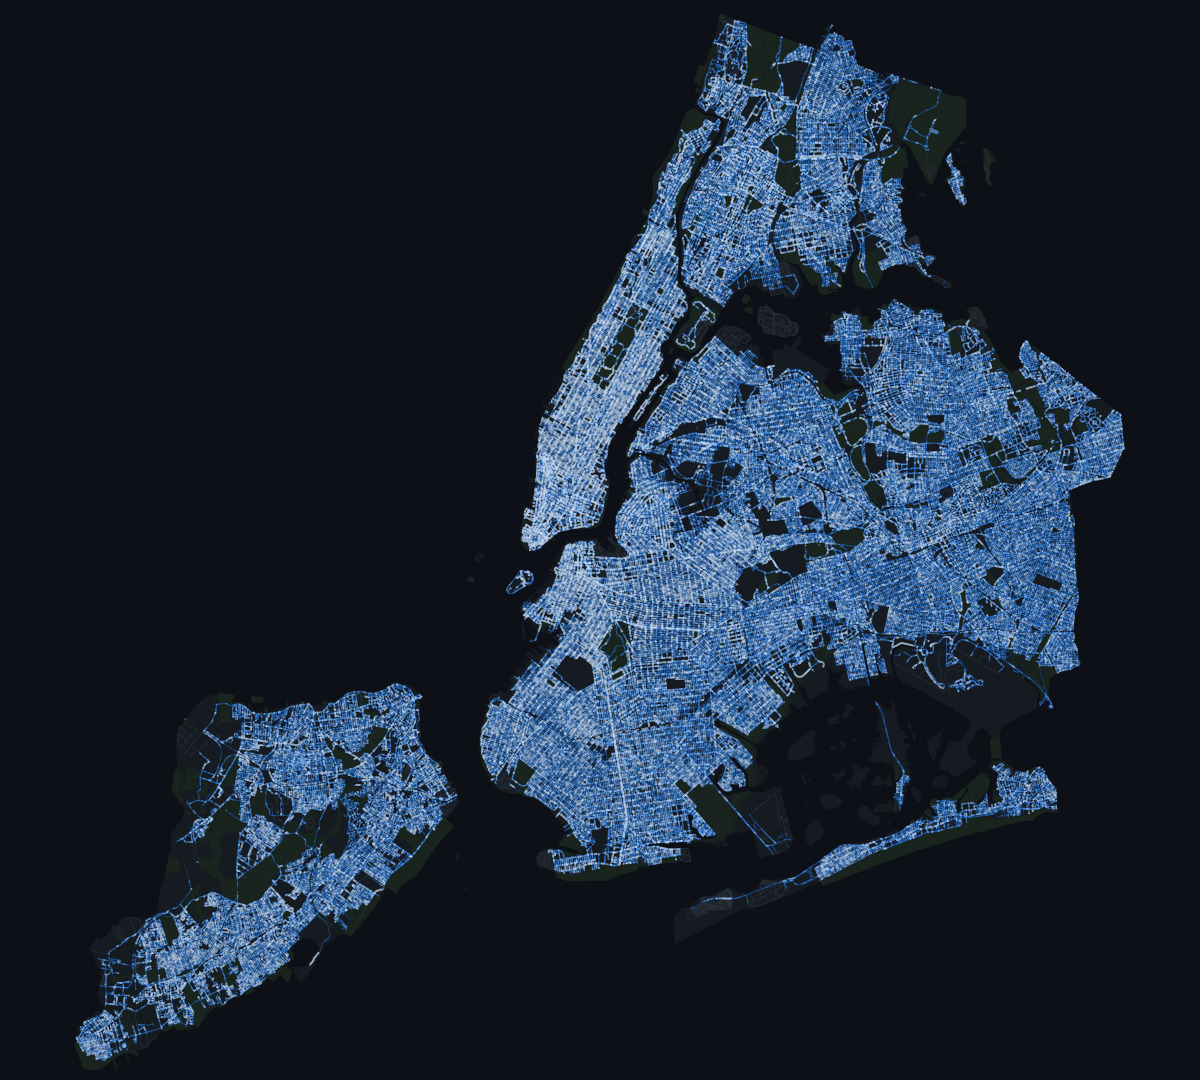
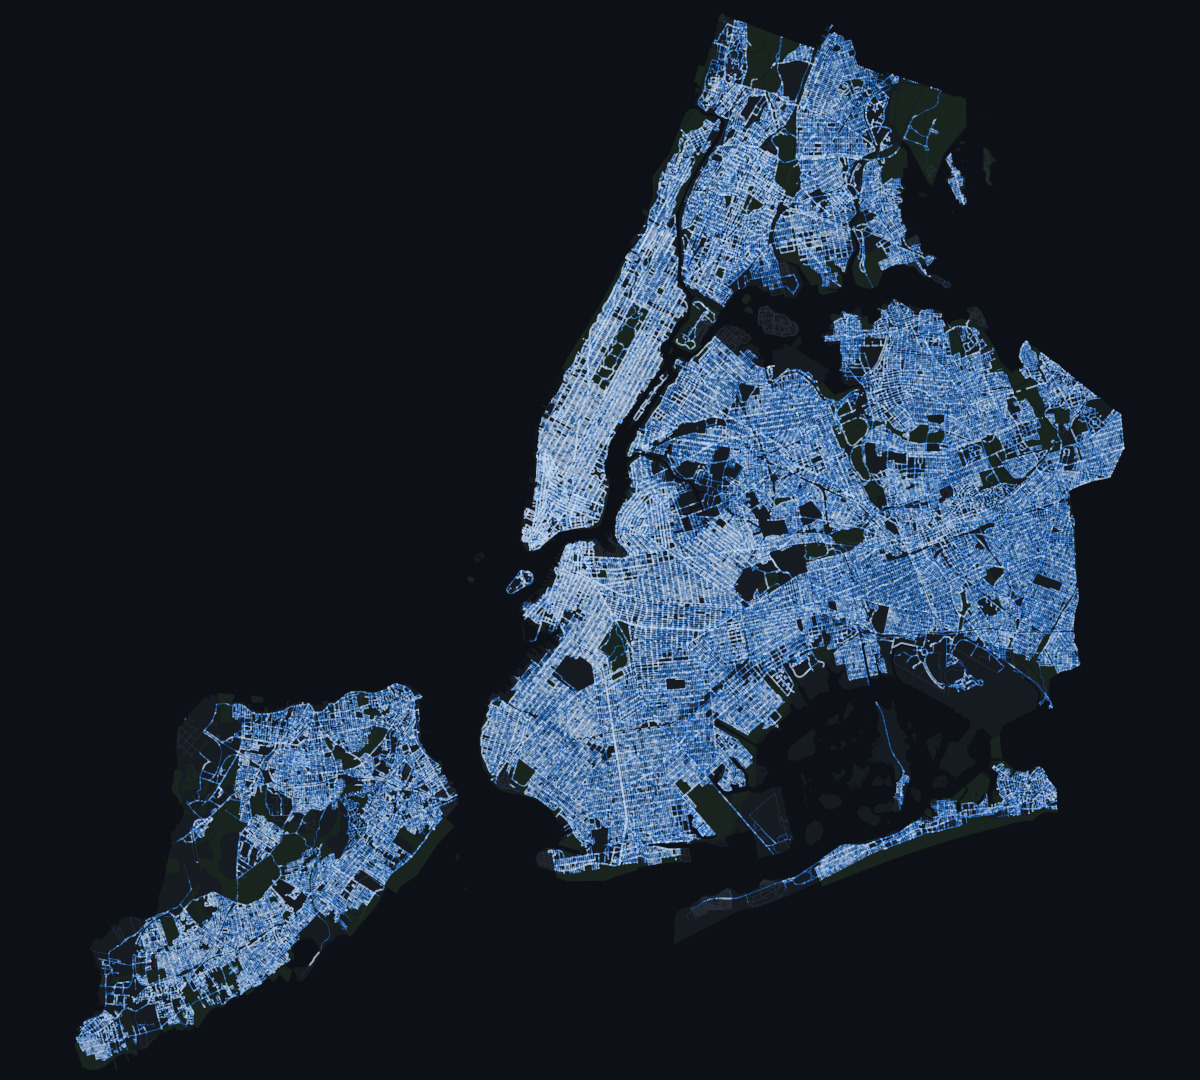
Map figure and tables from dataset v0.2 (plan levels up to 20)

diff --git a/docs/index.html b/docs/index.html
@@ -173,8 +173,8 @@
         <div class="stack" style="margin-top:36px">
           <div class="prose">
 <!-- nyc:start -->
-<p><strong>Version v0.1 (preview, plan levels up to 18)</strong>: 629,271 assets in 22 classes from 52,269 panoramas captured between 2007 and 2026. Plan levels up to 18 (one panorama per cell of about 116 m) across the five boroughs; minimum support capped at 1.</p>
-<p>The evaluation region is the union of 15 m disks around the 722 mapped panoramas that lie within 20 m of a panorama of the Upper Manhattan pilot study and at least 30 m from its development split, on which the fusion parameters were tuned. Over 4,153 ground-truth assets of NYC Open Data in that region, the map has precision 0.281, recall 0.293 and F1 0.287 at a matching radius of 3 m (<a href="#accuracy">table</a>).</p>
+<p><strong>Version v0.2 (plan levels up to 20)</strong>: 4,265,125 assets in 22 classes from 401,419 panoramas captured between 2007 and 2026. Plan levels up to 20 (one panorama per cell of about 29 m) across the five boroughs; minimum support capped at 1.</p>
+<p>The evaluation region is the union of 15 m disks around the 5996 mapped panoramas that lie within 20 m of a panorama of the Upper Manhattan pilot study and at least 30 m from its development split, on which the fusion parameters were tuned. Over 29,806 ground-truth assets of NYC Open Data in that region, the map has precision 0.255, recall 0.345 and F1 0.293 at a matching radius of 3 m (<a href="#accuracy">table</a>).</p>
 <p>The dataset holds the asset map, the reference points and the evaluation region, and no imagery.</p>
 <!-- nyc:end -->
           </div>
@@ -201,21 +201,21 @@ hydrants = assets[(assets["class"] == "fire_hydrant") &amp; (assets["support"] &
 <!-- accuracy:start -->
 <div class="table-wrap"><table>
 <thead><tr><th>Class</th><th class="n">Ground truth</th><th class="n">Predicted</th><th class="n">Precision</th><th class="n">Recall</th><th class="n">F1</th><th class="n">Median error (m)</th></tr></thead><tbody>
-<tr><td class="cls"><span class="sq" style="background:var(--g5)"></span>Street tree</td><td class="n">1,457</td><td class="n">1,591</td><td class="n">0.521</td><td class="n">0.564</td><td class="n">0.542</td><td class="n">2.22</td></tr>
-<tr><td class="cls"><span class="sq" style="background:var(--g1)"></span>Traffic sign</td><td class="n">913</td><td class="n">634</td><td class="n">0.146</td><td class="n">0.101</td><td class="n">0.119</td><td class="n">2.26</td></tr>
-<tr><td class="cls"><span class="sq" style="background:var(--g0)"></span>Sign pole</td><td class="n">485</td><td class="n">306</td><td class="n">0.039</td><td class="n">0.025</td><td class="n">0.030</td><td class="n">2.91</td></tr>
-<tr><td class="cls"><span class="sq" style="background:var(--g0)"></span>Street light</td><td class="n">351</td><td class="n">781</td><td class="n">0.097</td><td class="n">0.217</td><td class="n">0.134</td><td class="n">1.58</td></tr>
-<tr><td class="cls"><span class="sq" style="background:var(--g2)"></span>Curb ramp</td><td class="n">307</td><td class="n">219</td><td class="n">0.542</td><td class="n">0.378</td><td class="n">0.445</td><td class="n">1.40</td></tr>
-<tr><td class="cls"><span class="sq" style="background:var(--g3)"></span>Fire hydrant</td><td class="n">186</td><td class="n">115</td><td class="n">0.426</td><td class="n">0.263</td><td class="n">0.326</td><td class="n">2.27</td></tr>
-<tr><td class="cls"><span class="sq" style="background:var(--g2)"></span>Catch basin</td><td class="n">176</td><td class="n">113</td><td class="n">0.186</td><td class="n">0.119</td><td class="n">0.145</td><td class="n">2.38</td></tr>
-<tr><td class="cls"><span class="sq" style="background:var(--g6)"></span>Bike rack</td><td class="n">129</td><td class="n">71</td><td class="n">0.070</td><td class="n">0.039</td><td class="n">0.050</td><td class="n">2.11</td></tr>
-<tr><td class="cls"><span class="sq" style="background:var(--g4)"></span>Trash can</td><td class="n">51</td><td class="n">314</td><td class="n">0.029</td><td class="n">0.176</td><td class="n">0.049</td><td class="n">1.97</td></tr>
-<tr><td class="cls"><span class="sq" style="background:var(--g6)"></span>Parking meter</td><td class="n">29</td><td class="n">16</td><td class="n">0.125</td><td class="n">0.069</td><td class="n">0.089</td><td class="n">2.49</td></tr>
-<tr><td class="cls"><span class="sq" style="background:var(--g3)"></span>Fire alarm box</td><td class="n">23</td><td class="n">2</td><td class="n">0.000</td><td class="n">0.000</td><td class="n">0.000</td><td class="n">n/a</td></tr>
-<tr><td class="cls"><span class="sq" style="background:var(--g7)"></span>Bench</td><td class="n">19</td><td class="n">182</td><td class="n">0.055</td><td class="n">0.526</td><td class="n">0.100</td><td class="n">2.55</td></tr>
-<tr><td class="cls"><span class="sq" style="background:var(--g6)"></span>Bus shelter</td><td class="n">14</td><td class="n">7</td><td class="n">0.429</td><td class="n">0.214</td><td class="n">0.286</td><td class="n">2.57</td></tr>
-<tr><td class="cls"><span class="sq" style="background:var(--g7)"></span>LinkNYC kiosk</td><td class="n">13</td><td class="n">0</td><td class="n">n/a</td><td class="n">0.000</td><td class="n">n/a</td><td class="n">n/a</td></tr>
-<tr class="total"><td>All classes</td><td class="n">4,153</td><td class="n">4,351</td><td class="n">0.281</td><td class="n">0.293</td><td class="n">0.287</td><td class="n"></td></tr>
+<tr><td class="cls"><span class="sq" style="background:var(--g5)"></span>Street tree</td><td class="n">9,768</td><td class="n">12,432</td><td class="n">0.500</td><td class="n">0.636</td><td class="n">0.560</td><td class="n">2.17</td></tr>
+<tr><td class="cls"><span class="sq" style="background:var(--g1)"></span>Traffic sign</td><td class="n">6,322</td><td class="n">5,779</td><td class="n">0.149</td><td class="n">0.136</td><td class="n">0.142</td><td class="n">2.57</td></tr>
+<tr><td class="cls"><span class="sq" style="background:var(--g0)"></span>Sign pole</td><td class="n">3,390</td><td class="n">3,407</td><td class="n">0.044</td><td class="n">0.044</td><td class="n">0.044</td><td class="n">3.23</td></tr>
+<tr><td class="cls"><span class="sq" style="background:var(--g2)"></span>Curb ramp</td><td class="n">2,962</td><td class="n">2,254</td><td class="n">0.633</td><td class="n">0.479</td><td class="n">0.546</td><td class="n">1.41</td></tr>
+<tr><td class="cls"><span class="sq" style="background:var(--g0)"></span>Street light</td><td class="n">2,409</td><td class="n">7,464</td><td class="n">0.084</td><td class="n">0.261</td><td class="n">0.127</td><td class="n">1.84</td></tr>
+<tr><td class="cls"><span class="sq" style="background:var(--g2)"></span>Catch basin</td><td class="n">1,582</td><td class="n">1,147</td><td class="n">0.305</td><td class="n">0.221</td><td class="n">0.256</td><td class="n">1.82</td></tr>
+<tr><td class="cls"><span class="sq" style="background:var(--g3)"></span>Fire hydrant</td><td class="n">1,454</td><td class="n">1,106</td><td class="n">0.375</td><td class="n">0.284</td><td class="n">0.323</td><td class="n">2.29</td></tr>
+<tr><td class="cls"><span class="sq" style="background:var(--g6)"></span>Bike rack</td><td class="n">817</td><td class="n">691</td><td class="n">0.041</td><td class="n">0.034</td><td class="n">0.037</td><td class="n">2.10</td></tr>
+<tr><td class="cls"><span class="sq" style="background:var(--g4)"></span>Trash can</td><td class="n">402</td><td class="n">3,839</td><td class="n">0.032</td><td class="n">0.308</td><td class="n">0.058</td><td class="n">2.51</td></tr>
+<tr><td class="cls"><span class="sq" style="background:var(--g3)"></span>Fire alarm box</td><td class="n">197</td><td class="n">25</td><td class="n">0.000</td><td class="n">0.000</td><td class="n">0.000</td><td class="n">n/a</td></tr>
+<tr><td class="cls"><span class="sq" style="background:var(--g6)"></span>Parking meter</td><td class="n">187</td><td class="n">131</td><td class="n">0.115</td><td class="n">0.080</td><td class="n">0.094</td><td class="n">1.68</td></tr>
+<tr><td class="cls"><span class="sq" style="background:var(--g7)"></span>LinkNYC kiosk</td><td class="n">109</td><td class="n">4</td><td class="n">0.000</td><td class="n">0.000</td><td class="n">0.000</td><td class="n">4.09</td></tr>
+<tr><td class="cls"><span class="sq" style="background:var(--g6)"></span>Bus shelter</td><td class="n">105</td><td class="n">75</td><td class="n">0.338</td><td class="n">0.248</td><td class="n">0.286</td><td class="n">2.57</td></tr>
+<tr><td class="cls"><span class="sq" style="background:var(--g7)"></span>Bench</td><td class="n">102</td><td class="n">1,954</td><td class="n">0.027</td><td class="n">0.520</td><td class="n">0.052</td><td class="n">1.83</td></tr>
+<tr class="total"><td>All classes</td><td class="n">29,806</td><td class="n">40,308</td><td class="n">0.255</td><td class="n">0.345</td><td class="n">0.293</td><td class="n"></td></tr>
 </tbody></table></div>
 <!-- accuracy:end -->
         <p class="cap">Reference points come from NYC Open Data. Several layers are partial or dated: sign work orders record the signs the city has worked on, the tree census dates from 2015 and the ramp survey from 2019, and a detected asset missing from its layer counts as a false positive. The median error is over pairs matched within 5 m. The <a href="evaluation.html">evaluation</a> gives the protocol and the reference layers.</p>

diff --git a/docs/evaluation.html b/docs/evaluation.html
@@ -68,7 +68,7 @@ median error: median distance of the pairs matched within 5 m</code></pre>
 <p>The region centres are published with the dataset (<code>eval/region_centers.parquet</code>), together with the reference points (<code>eval/ground_truth.parquet</code>).</p>
 <h2 id="results">Results<a class="anchor" href="#results" aria-label="Link to this section">#</a></h2>
 <p>The published version of the map, at a matching radius of 3 m:</p>
-<div class="table-wrap"><table><thead><tr><th>Class</th><th class=n>Ground truth</th><th class=n>Predicted</th><th class=n>Precision</th><th class=n>Recall</th><th class=n>F1</th><th class=n>Median error (m)</th></tr></thead><tbody><tr><td>Street tree</td><td class=n>1,457</td><td class=n>1,591</td><td class=n>0.521</td><td class=n>0.564</td><td class=n>0.542</td><td class=n>2.22</td></tr><tr><td>Traffic sign</td><td class=n>913</td><td class=n>634</td><td class=n>0.146</td><td class=n>0.101</td><td class=n>0.119</td><td class=n>2.26</td></tr><tr><td>Sign pole</td><td class=n>485</td><td class=n>306</td><td class=n>0.039</td><td class=n>0.025</td><td class=n>0.030</td><td class=n>2.91</td></tr><tr><td>Street light</td><td class=n>351</td><td class=n>781</td><td class=n>0.097</td><td class=n>0.217</td><td class=n>0.134</td><td class=n>1.58</td></tr><tr><td>Curb ramp</td><td class=n>307</td><td class=n>219</td><td class=n>0.542</td><td class=n>0.378</td><td class=n>0.445</td><td class=n>1.40</td></tr><tr><td>Fire hydrant</td><td class=n>186</td><td class=n>115</td><td class=n>0.426</td><td class=n>0.263</td><td class=n>0.326</td><td class=n>2.27</td></tr><tr><td>Catch basin</td><td class=n>176</td><td class=n>113</td><td class=n>0.186</td><td class=n>0.119</td><td class=n>0.145</td><td class=n>2.38</td></tr><tr><td>Bike rack</td><td class=n>129</td><td class=n>71</td><td class=n>0.070</td><td class=n>0.039</td><td class=n>0.050</td><td class=n>2.11</td></tr><tr><td>Trash can</td><td class=n>51</td><td class=n>314</td><td class=n>0.029</td><td class=n>0.176</td><td class=n>0.049</td><td class=n>1.97</td></tr><tr><td>Parking meter</td><td class=n>29</td><td class=n>16</td><td class=n>0.125</td><td class=n>0.069</td><td class=n>0.089</td><td class=n>2.49</td></tr><tr><td>Fire alarm box</td><td class=n>23</td><td class=n>2</td><td class=n>0.000</td><td class=n>0.000</td><td class=n>0.000</td><td class=n>n/a</td></tr><tr><td>Bench</td><td class=n>19</td><td class=n>182</td><td class=n>0.055</td><td class=n>0.526</td><td class=n>0.100</td><td class=n>2.55</td></tr><tr><td>Bus shelter</td><td class=n>14</td><td class=n>7</td><td class=n>0.429</td><td class=n>0.214</td><td class=n>0.286</td><td class=n>2.57</td></tr><tr><td>LinkNYC kiosk</td><td class=n>13</td><td class=n>0</td><td class=n>n/a</td><td class=n>0.000</td><td class=n>n/a</td><td class=n>n/a</td></tr><tr class="total"><td>All classes</td><td class=n>4,153</td><td class=n>4,351</td><td class=n>0.281</td><td class=n>0.293</td><td class=n>0.287</td><td class=n></td></tr></tbody></table></div>
+<div class="table-wrap"><table><thead><tr><th>Class</th><th class=n>Ground truth</th><th class=n>Predicted</th><th class=n>Precision</th><th class=n>Recall</th><th class=n>F1</th><th class=n>Median error (m)</th></tr></thead><tbody><tr><td>Street tree</td><td class=n>9,768</td><td class=n>12,432</td><td class=n>0.500</td><td class=n>0.636</td><td class=n>0.560</td><td class=n>2.17</td></tr><tr><td>Traffic sign</td><td class=n>6,322</td><td class=n>5,779</td><td class=n>0.149</td><td class=n>0.136</td><td class=n>0.142</td><td class=n>2.57</td></tr><tr><td>Sign pole</td><td class=n>3,390</td><td class=n>3,407</td><td class=n>0.044</td><td class=n>0.044</td><td class=n>0.044</td><td class=n>3.23</td></tr><tr><td>Curb ramp</td><td class=n>2,962</td><td class=n>2,254</td><td class=n>0.633</td><td class=n>0.479</td><td class=n>0.546</td><td class=n>1.41</td></tr><tr><td>Street light</td><td class=n>2,409</td><td class=n>7,464</td><td class=n>0.084</td><td class=n>0.261</td><td class=n>0.127</td><td class=n>1.84</td></tr><tr><td>Catch basin</td><td class=n>1,582</td><td class=n>1,147</td><td class=n>0.305</td><td class=n>0.221</td><td class=n>0.256</td><td class=n>1.82</td></tr><tr><td>Fire hydrant</td><td class=n>1,454</td><td class=n>1,106</td><td class=n>0.375</td><td class=n>0.284</td><td class=n>0.323</td><td class=n>2.29</td></tr><tr><td>Bike rack</td><td class=n>817</td><td class=n>691</td><td class=n>0.041</td><td class=n>0.034</td><td class=n>0.037</td><td class=n>2.10</td></tr><tr><td>Trash can</td><td class=n>402</td><td class=n>3,839</td><td class=n>0.032</td><td class=n>0.308</td><td class=n>0.058</td><td class=n>2.51</td></tr><tr><td>Fire alarm box</td><td class=n>197</td><td class=n>25</td><td class=n>0.000</td><td class=n>0.000</td><td class=n>0.000</td><td class=n>n/a</td></tr><tr><td>Parking meter</td><td class=n>187</td><td class=n>131</td><td class=n>0.115</td><td class=n>0.080</td><td class=n>0.094</td><td class=n>1.68</td></tr><tr><td>LinkNYC kiosk</td><td class=n>109</td><td class=n>4</td><td class=n>0.000</td><td class=n>0.000</td><td class=n>0.000</td><td class=n>4.09</td></tr><tr><td>Bus shelter</td><td class=n>105</td><td class=n>75</td><td class=n>0.338</td><td class=n>0.248</td><td class=n>0.286</td><td class=n>2.57</td></tr><tr><td>Bench</td><td class=n>102</td><td class=n>1,954</td><td class=n>0.027</td><td class=n>0.520</td><td class=n>0.052</td><td class=n>1.83</td></tr><tr class="total"><td>All classes</td><td class=n>29,806</td><td class=n>40,308</td><td class=n>0.255</td><td class=n>0.345</td><td class=n>0.293</td><td class=n></td></tr></tbody></table></div>
 <p>The accuracy of a map depends on how densely its panoramas sample the streets. In version v0.1 (one panorama per cell of about 116 m), 93.3% of the assets have support 1, so the minimum support is capped at 1, which raises recall and lowers precision. The dataset card states the sampling of each version.</p>
 <p>To recompute the table from the published files:</p>
 <pre><code>hf download mehmetkeremturkcan/streetnet-nyc --repo-type dataset --local-dir streetnet-nyc

diff --git a/docs/evaluation.md b/docs/evaluation.md
@@ -73,21 +73,21 @@ The published version of the map, at a matching radius of 3 m:
 <!-- accuracy:start -->
 | Class | Ground truth | Predicted | Precision | Recall | F1 | Median error (m) |
 |---|---:|---:|---:|---:|---:|---:|
-| Street tree | 1,457 | 1,591 | 0.521 | 0.564 | 0.542 | 2.22 |
-| Traffic sign | 913 | 634 | 0.146 | 0.101 | 0.119 | 2.26 |
-| Sign pole | 485 | 306 | 0.039 | 0.025 | 0.030 | 2.91 |
-| Street light | 351 | 781 | 0.097 | 0.217 | 0.134 | 1.58 |
-| Curb ramp | 307 | 219 | 0.542 | 0.378 | 0.445 | 1.40 |
-| Fire hydrant | 186 | 115 | 0.426 | 0.263 | 0.326 | 2.27 |
-| Catch basin | 176 | 113 | 0.186 | 0.119 | 0.145 | 2.38 |
-| Bike rack | 129 | 71 | 0.070 | 0.039 | 0.050 | 2.11 |
-| Trash can | 51 | 314 | 0.029 | 0.176 | 0.049 | 1.97 |
-| Parking meter | 29 | 16 | 0.125 | 0.069 | 0.089 | 2.49 |
-| Fire alarm box | 23 | 2 | 0.000 | 0.000 | 0.000 | n/a |
-| Bench | 19 | 182 | 0.055 | 0.526 | 0.100 | 2.55 |
-| Bus shelter | 14 | 7 | 0.429 | 0.214 | 0.286 | 2.57 |
-| LinkNYC kiosk | 13 | 0 | n/a | 0.000 | n/a | n/a |
-| All classes | 4,153 | 4,351 | 0.281 | 0.293 | 0.287 | |
+| Street tree | 9,768 | 12,432 | 0.500 | 0.636 | 0.560 | 2.17 |
+| Traffic sign | 6,322 | 5,779 | 0.149 | 0.136 | 0.142 | 2.57 |
+| Sign pole | 3,390 | 3,407 | 0.044 | 0.044 | 0.044 | 3.23 |
+| Curb ramp | 2,962 | 2,254 | 0.633 | 0.479 | 0.546 | 1.41 |
+| Street light | 2,409 | 7,464 | 0.084 | 0.261 | 0.127 | 1.84 |
+| Catch basin | 1,582 | 1,147 | 0.305 | 0.221 | 0.256 | 1.82 |
+| Fire hydrant | 1,454 | 1,106 | 0.375 | 0.284 | 0.323 | 2.29 |
+| Bike rack | 817 | 691 | 0.041 | 0.034 | 0.037 | 2.10 |
+| Trash can | 402 | 3,839 | 0.032 | 0.308 | 0.058 | 2.51 |
+| Fire alarm box | 197 | 25 | 0.000 | 0.000 | 0.000 | n/a |
+| Parking meter | 187 | 131 | 0.115 | 0.080 | 0.094 | 1.68 |
+| LinkNYC kiosk | 109 | 4 | 0.000 | 0.000 | 0.000 | 4.09 |
+| Bus shelter | 105 | 75 | 0.338 | 0.248 | 0.286 | 2.57 |
+| Bench | 102 | 1,954 | 0.027 | 0.520 | 0.052 | 1.83 |
+| All classes | 29,806 | 40,308 | 0.255 | 0.345 | 0.293 | |
 <!-- accuracy:end -->
 
 The accuracy of a map depends on how densely its panoramas sample the streets. In version v0.1 (one panorama per

diff --git a/README.md b/README.md
@@ -96,7 +96,7 @@ a run can use another vocabulary (`--vocabulary`); curb ramps and catch basins c
 </picture>
 
 <!-- nyc:start -->
-Version v0.1 (preview, plan levels up to 18): 629,271 assets in 22 classes from 52,269 panoramas captured between 2007 and 2026. F1 0.287 at a matching radius of 3 m over 4,153 ground-truth assets of NYC Open Data ([per-class results](docs/evaluation.md#results)).
+Version v0.2 (plan levels up to 20): 4,265,125 assets in 22 classes from 401,419 panoramas captured between 2007 and 2026. F1 0.293 at a matching radius of 3 m over 29,806 ground-truth assets of NYC Open Data ([per-class results](docs/evaluation.md#results)).
 <!-- nyc:end -->
 
 The asset map, its reference points and the evaluation region are published as a
